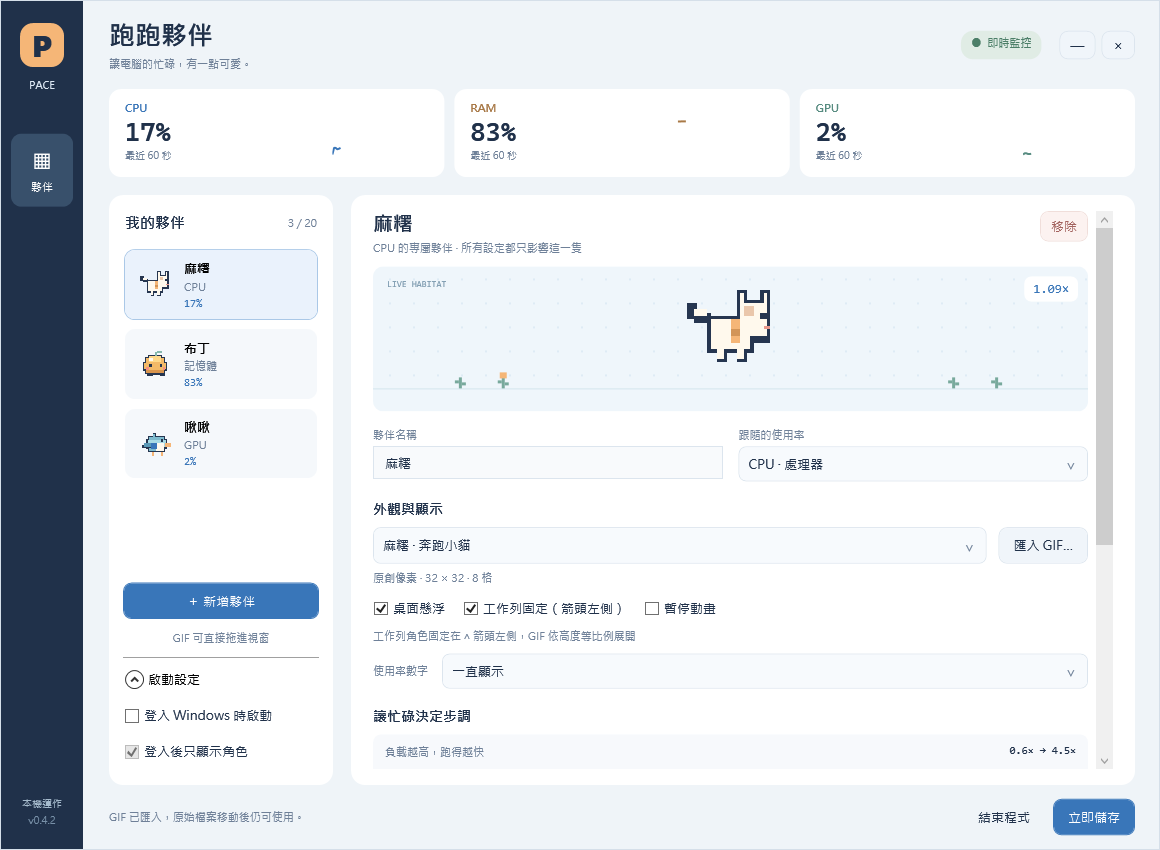
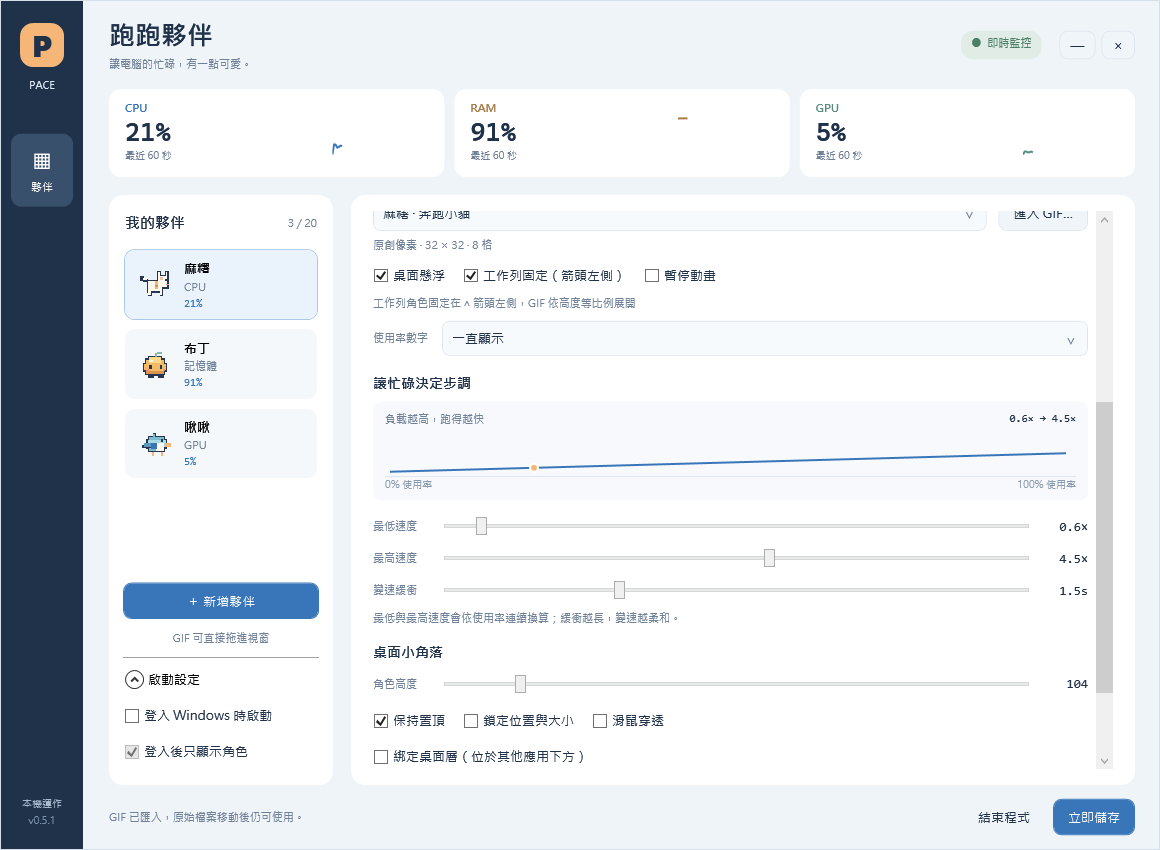
Fix desktop GIF drag events and capture teardown in v0.5.1

diff --git a/src/PaceBuddies/Views/MainWindow.xaml b/src/PaceBuddies/Views/MainWindow.xaml
@@ -7,7 +7,7 @@
    <Grid Margin="0,22,0,22"><Grid.RowDefinitions><RowDefinition Height="Auto"/><RowDefinition Height="*"/><RowDefinition Height="Auto"/></Grid.RowDefinitions>
     <StackPanel HorizontalAlignment="Center"><Border Background="#F5B677" CornerRadius="13" Width="44" Height="44"><TextBlock Text="P" FontFamily="Segoe UI Black" FontSize="30" HorizontalAlignment="Center" VerticalAlignment="Center"/></Border><TextBlock Text="PACE" Foreground="#DDE8F4" FontSize="10" FontWeight="Bold" HorizontalAlignment="Center" Margin="0,12,0,0"/></StackPanel>
     <StackPanel Grid.Row="1" Margin="10,42,10,0"><Border Background="#38506B" CornerRadius="10" Padding="4,13"><StackPanel><TextBlock Text="▦" Foreground="White" FontSize="22" HorizontalAlignment="Center"/><TextBlock Text="夥伴" Foreground="White" FontSize="11" HorizontalAlignment="Center" Margin="0,5,0,0"/></StackPanel></Border></StackPanel>
-    <StackPanel Grid.Row="2"><TextBlock Text="本機運作" Foreground="#A7BDCF" FontSize="10" HorizontalAlignment="Center"/><TextBlock Text="v0.5.0" Foreground="#7891A9" FontSize="10" HorizontalAlignment="Center" Margin="0,5,0,0"/></StackPanel>
+    <StackPanel Grid.Row="2"><TextBlock Text="本機運作" Foreground="#A7BDCF" FontSize="10" HorizontalAlignment="Center"/><TextBlock Text="v0.5.1" Foreground="#7891A9" FontSize="10" HorizontalAlignment="Center" Margin="0,5,0,0"/></StackPanel>
    </Grid>
   </Border>
   <Grid Grid.Column="1" Margin="26,0,24,0">

diff --git a/src/PaceBuddies/Views/DesktopBuddyWindow.cs b/src/PaceBuddies/Views/DesktopBuddyWindow.cs
@@ -58,15 +58,19 @@ public sealed class DesktopBuddyWindow : Window
         Grid.SetRowSpan(editOutline,2);panel.Children.Add(editOutline);
         resizeGrip=new Border{Width=24,Height=24,CornerRadius=new CornerRadius(6),Background=new SolidColorBrush(Color.FromArgb(235,234,242,252)),BorderBrush=new SolidColorBrush(Color.FromRgb(57,118,185)),BorderThickness=new Thickness(1),HorizontalAlignment=HorizontalAlignment.Right,VerticalAlignment=VerticalAlignment.Bottom,Cursor=Cursors.SizeNWSE,ToolTip="拖曳等比例縮放",Name="ResizeGrip",Child=new TextBlock{Text="↘",Foreground=new SolidColorBrush(Color.FromRgb(57,118,185)),FontSize=16,HorizontalAlignment=HorizontalAlignment.Center,VerticalAlignment=VerticalAlignment.Center}};
         Grid.SetRowSpan(resizeGrip,2);panel.Children.Add(resizeGrip);Content=panel;
-        resizeGrip.PreviewMouseLeftButtonDown+=(_,e)=>{BeginGesture(Gesture.Resize);e.Handled=true;};
+        resizeGrip.PreviewMouseLeftButtonDown+=(_,e)=>{BeginGesture(Gesture.Resize,e);e.Handled=true;};
         MouseEnter+=(_,_)=>UpdateChrome();MouseLeave+=(_,_)=>UpdateChrome();
-        MouseLeftButtonDown+=(_,e)=>
+        // ScrollViewer handles the GIF's bubbling press. Receive handled presses too,
+        // while leaving the resize grip's preview-started gesture intact.
+        AddHandler(MouseLeftButtonDownEvent,new MouseButtonEventHandler((_,e)=>
         {
-            if(e.ClickCount==2){open();return;}
-            BeginGesture(Gesture.Move);
-        };
-        MouseMove+=(_,_)=>UpdateGesture();
-        PreviewMouseLeftButtonUp+=(_,e)=>{if(gesture!=Gesture.None){FinishGesture();e.Handled=true;}};
+            if(gesture!=Gesture.None)return;
+            if(e.ClickCount==2){open();e.Handled=true;return;}
+            BeginGesture(Gesture.Move,e);
+            if(gesture!=Gesture.None)e.Handled=true;
+        }),true);
+        MouseMove+=(_,e)=>{if(gesture!=Gesture.None&&!closed)UpdateGesture(EventScreenPoint(e));};
+        PreviewMouseLeftButtonUp+=(_,e)=>{if(gesture!=Gesture.None){UpdateGesture(EventScreenPoint(e));FinishGesture();e.Handled=true;}};
         LostMouseCapture+=(_,_)=>{if(gesture!=Gesture.None)FinishGesture();};
         PreviewMouseWheel+=(_,e)=>
         {
@@ -74,7 +78,7 @@ public sealed class DesktopBuddyWindow : Window
             e.Handled=true;
             ResizeDirectlyBy(Math.Sign(e.Delta)*8);
         };
-        gestureTimer.Tick+=(_,_)=>{if((GetAsyncKeyState(1)&0x8000)==0)FinishGesture();else UpdateGesture();};
+        gestureTimer.Tick+=(_,_)=>PollOutsideGesture();
         SourceInitialized+=(_,_)=>{layer=new(new WindowInteropHelper(this).Handle);ApplySettings();};
         Loaded+=(_,_)=>{Position();UpdateChrome();};
         var menu=new ContextMenu();
@@ -131,18 +135,34 @@ public sealed class DesktopBuddyWindow : Window
         }
         finally{applying=false;}
     }
-    private void BeginGesture(Gesture kind)
+    private NativePoint EventScreenPoint(MouseEventArgs e)
     {
-        if(!DesktopGeometry.CanManipulate(runtime.Config))return;
+        var point=PointToScreen(e.GetPosition(this));
+        return new NativePoint{X=(int)Math.Round(point.X),Y=(int)Math.Round(point.Y)};
+    }
+    private void BeginGesture(Gesture kind,MouseButtonEventArgs e)
+    {
+        if(closed||!DesktopGeometry.CanManipulate(runtime.Config))return;
+        var eventPoint=EventScreenPoint(e);
         externalEdit(()=>{});
-        if(closed||!DesktopGeometry.CanManipulate(runtime.Config)||!GetCursorPos(out startPointer))return;
+        if(closed||!DesktopGeometry.CanManipulate(runtime.Config))return;
+        startPointer=eventPoint;
         if(!GetWindowRect(new WindowInteropHelper(this).Handle,out startBounds))return;
         gesture=kind;lastPointer=startPointer;startSize=runtime.Config.Size;
         CaptureMouse();gestureTimer.Start();UpdateChrome();
     }
-    private void UpdateGesture()
+    private void PollOutsideGesture()
     {
-        if(gesture==Gesture.None||closed||!GetCursorPos(out var pointer))return;
+        if(gesture==Gesture.None||closed||!GetCursorPos(out var pointer)||!GetWindowRect(new WindowInteropHelper(this).Handle,out var bounds))return;
+        // Background/no-activate HWND capture may stop delivering outside the role.
+        // Inside it, use queued WPF event points exclusively to avoid sampling ahead.
+        if(pointer.X>=bounds.Left&&pointer.X<bounds.Right&&pointer.Y>=bounds.Top&&pointer.Y<bounds.Bottom)return;
+        UpdateGesture(pointer);
+        if((GetAsyncKeyState(1)&0x8000)==0)FinishGesture();
+    }
+    private void UpdateGesture(NativePoint pointer)
+    {
+        if(gesture==Gesture.None||closed)return;
         if(pointer.X==lastPointer.X&&pointer.Y==lastPointer.Y)return;
         lastPointer=pointer;
         var dx=pointer.X-startPointer.X;var dy=pointer.Y-startPointer.Y;
@@ -218,6 +238,14 @@ public sealed class DesktopBuddyWindow : Window
         });
     }
     private void OnDisplaySettingsChanged(object? sender,EventArgs e){if(!closed&&!Dispatcher.HasShutdownStarted)Dispatcher.BeginInvoke(QueueMonitorFit);}
+    protected override void OnClosing(System.ComponentModel.CancelEventArgs e)
+    {
+        // Capture can be lost during native teardown, before Closed fires.
+        // End the gesture first so it cannot reapply a closing HWND via the coordinator.
+        closed=true;StopGesture();shellTimer.Stop();
+        base.OnClosing(e);
+        if(e.Cancel){closed=false;ApplySettings();}
+    }
     protected override void OnDpiChanged(DpiScale oldDpi,DpiScale newDpi){base.OnDpiChanged(oldDpi,newDpi);QueueMonitorFit();}
     [StructLayout(LayoutKind.Sequential)] private struct NativePoint{public int X,Y;}
     [DllImport("user32.dll")] private static extern bool GetCursorPos(out NativePoint point);

diff --git a/src/PaceBuddies/SmokeChecks.cs b/src/PaceBuddies/SmokeChecks.cs
@@ -231,6 +231,16 @@ internal static class SmokeChecks
             Check("Native click-through style is enabled",(GetWindowLongPtr(new WindowInteropHelper(desktop).Handle,-20).ToInt64()&0x20)!=0);
             config.ClickThrough=false;coordinator.Apply(coordinator.Buddies[0]);
             Check("Native click-through style can be disabled",(GetWindowLongPtr(new WindowInteropHelper(desktop).Handle,-20).ToInt64()&0x20)==0);
+            var desktopDragImage=Descendants<System.Windows.Controls.Image>(desktop).Single();
+            var dragRoute=new List<string>();
+            foreach(var element in new UIElement[]{desktopDragImage,Descendants<System.Windows.Controls.ScrollViewer>(desktop).Single(),desktop})
+                element.AddHandler(UIElement.MouseLeftButtonDownEvent,new System.Windows.Input.MouseButtonEventHandler((sender,args)=>dragRoute.Add($"{sender.GetType().Name}: handled={args.Handled}, captured={desktop.IsMouseCaptured}")),true);
+            desktopDragImage.RaiseEvent(new System.Windows.Input.MouseButtonEventArgs(System.Windows.Input.Mouse.PrimaryDevice,Environment.TickCount,System.Windows.Input.MouseButton.Left){RoutedEvent=System.Windows.Input.Mouse.MouseDownEvent});
+            var imageDragCaptured=desktop.IsMouseCaptured;
+            File.WriteAllText(Path.Combine(output,"drag-route.json"),JsonSerializer.Serialize(new{Route=dragRoute,Captured=imageDragCaptured},new JsonSerializerOptions{WriteIndented=true}));
+            desktop.RaiseEvent(new System.Windows.Input.MouseButtonEventArgs(System.Windows.Input.Mouse.PrimaryDevice,Environment.TickCount,System.Windows.Input.MouseButton.Left){RoutedEvent=System.Windows.Input.Mouse.PreviewMouseUpEvent});
+            Check("Mouse press on GIF starts the drag gesture",imageDragCaptured);
+            Check("GIF release finishes its captured gesture",!desktop.IsMouseCaptured);
             var pendingDesktopName="保留桌面操作前的草稿";
             nameBox.Text=pendingDesktopName;
             Check("Unlocked desktop buddy can resize directly",desktop.ResizeDirectlyTo(160)&&config.Size==160);
@@ -243,6 +253,8 @@ internal static class SmokeChecks
             GetWindowRect(new WindowInteropHelper(desktop).Handle,out var movedDesktop);
             Check("Desktop movement persists physical coordinates",config.X==movedDesktop.Left&&config.Y==movedDesktop.Top&&movedDesktop.Left==desktopArea.Left+80);
             coordinator.EditExternally(()=>config.Locked=true);
+            desktopDragImage.RaiseEvent(new System.Windows.Input.MouseButtonEventArgs(System.Windows.Input.Mouse.PrimaryDevice,Environment.TickCount,System.Windows.Input.MouseButton.Left){RoutedEvent=System.Windows.Input.Mouse.MouseDownEvent});
+            Check("Locked GIF press cannot start a gesture",!desktop.IsMouseCaptured);
             Check("Locked desktop blocks resize and movement",!desktop.ResizeDirectlyTo(240)&&!desktop.MoveDirectlyTo(0,0)&&config.Size==160);
             coordinator.EditExternally(()=>{config.Locked=false;config.ClickThrough=true;});
             Check("Click-through desktop blocks direct manipulation",!desktop.ResizeDirectlyTo(240)&&!desktop.MoveDirectlyTo(0,0));
@@ -261,6 +273,9 @@ internal static class SmokeChecks
             layerBox.BringIntoView();manager.UpdateLayout();Capture(manager,Path.Combine(output,"desktop-settings.png"));
             GetWindowRect(desktopHandle,out var afterBinding);
             Check("Binding preserves physical screen position",Math.Abs(beforeBinding.Left-afterBinding.Left)<=1&&Math.Abs(beforeBinding.Top-afterBinding.Top)<=1);
+            desktopDragImage.RaiseEvent(new System.Windows.Input.MouseButtonEventArgs(System.Windows.Input.Mouse.PrimaryDevice,Environment.TickCount,System.Windows.Input.MouseButton.Left){RoutedEvent=System.Windows.Input.Mouse.MouseDownEvent});
+            Check("Desktop-bound GIF press starts a gesture",desktop.IsMouseCaptured);
+            desktop.RaiseEvent(new System.Windows.Input.MouseButtonEventArgs(System.Windows.Input.Mouse.PrimaryDevice,Environment.TickCount,System.Windows.Input.MouseButton.Left){RoutedEvent=System.Windows.Input.Mouse.PreviewMouseUpEvent});
             Check("Bound buddy still resizes and moves",desktop.ResizeDirectlyTo(200)&&desktop.MoveDirectlyTo(desktopArea.Left+150,desktopArea.Top+150)&&desktop.IsDesktopBound);
             GetWindowRect(desktopHandle,out var boundPosition);
             Check("Bound moves map to screen coordinates",boundPosition.Left==desktopArea.Left+150&&boundPosition.Top==desktopArea.Top+150);
@@ -281,6 +296,8 @@ internal static class SmokeChecks
                 finally{shell.UndoMinimizeAll();Marshal.FinalReleaseComObject(shell);manager.Reopen();}
             }
             else skipped.Add("Show Desktop visual hit testing requires an accessible input desktop; native parent/style still checked.");
+            desktopDragImage.RaiseEvent(new System.Windows.Input.MouseButtonEventArgs(System.Windows.Input.Mouse.PrimaryDevice,Environment.TickCount,System.Windows.Input.MouseButton.Left){RoutedEvent=System.Windows.Input.Mouse.MouseDownEvent});
+            Check("Desktop gesture is captured before host closure",desktop.IsMouseCaptured);
             var retiredHandle=desktopHandle;desktop.Close();await Task.Delay(120);
             desktop=Application.Current.Windows.OfType<DesktopBuddyWindow>().Single(window=>ReferenceEquals(window.DataContext,firstBuddy));
             desktopHandle=new WindowInteropHelper(desktop).Handle;

diff --git a/docs/verification.md b/docs/verification.md
@@ -1,5 +1,15 @@
 # Release verification · 2026-10-19
 
+## 0.5.1 desktop drag events and process recovery
+
+- Reproduced GIF Image→ScrollViewer→Window press routing: ScrollViewer marks the event handled and the old window handler never starts a gesture. The added routed-press check fails before handledEventsToo registration and passes after it. Locked and desktop-bound press cases, plus actual preview-release capture cleanup, are covered.
+- Fast native-input probe recorded the MouseDown event at client110,76 while GetCursorPos had already advanced20 pixels to the drag endpoint. Start/move/release now use event-screen coordinates; capture the start before flushing editor drafts. Native polling applies only outside the role's HWND bounds. The user stopped Computer Use before final end-to-end physical-input verification; no claim of a completed physical-pointer pass is made.
+- Reproduced active-capture Close teardown exception in isolated packaged checks: LostMouseCapture called FinishGesture→EditExternally→Apply→Show on a closing/closed HWND. OnClosing now marks the window closed and stops the gesture before native teardown; explicit captured-close/recreation regression passes.
+- A SendMessage-only replay with the real cursor elsewhere is not a valid native drag simulation: CaptureMouse also generates live-position reports. Kept diagnostic artifacts locally and removed that invalid check.
+- Final build:0 warnings/errors;66 Core checks pass. Packaged normal start:107 checks pass with one foreground-activation group skipped by the OS; background start:113 checks pass/no skips. Earlier development run also passed113 checks/no skips. Tests include actual parent/styles, Show Desktop exposure, closed-child recreation, taskbar visibility, GIF import/cache, settings and startup.
+- User's disappearing-right-corner report coincided with the legacy unversioned entry running0.1.0, while startup pointed to0.5.0. Restored the modern taskbar strip, then replaced the fixed entry with verified0.5.1 and launched process94100. All existing fields of the latest two buddies unchanged; both GIFs present; startup points to the fixed entry with --background; no real-profile error.log. The fixed EXE hash matches the release EXE.
+- Evidence: artifacts/drag-event-red/, artifacts/drag-route-red/, artifacts/drag-close-green/, artifacts/release-051-normal/, artifacts/release-051-background/; local settings backups remain ignored.
+
 ## 0.4.2 opening-application flicker
 
 - User clarified that opening any application/window can briefly remove the GIF; supplied screenshot still shows the Windows taskbar. Real-profile0.4.1 log contained fullscreen hide/restore transitions during launch. Native polling also captured the taskbar briefly ahead of the visible overlay before the500ms fallback refreshed it.

diff --git a/progress.md b/progress.md
@@ -69,3 +69,10 @@
 - Initial background test failed its fixed350ms shell transition assertion; unchanged binary recheck passed. Replaced timing assumption with bounded actual-exposure wait; final both modes passed. Inspected manager/settings renders.
 - Gracefully exited0.4.2 using its own UI Automation Exit action and launched0.5.0 process62532. Latest roster had two buddies; all existing fields identical, both GIF paths valid, startup hidden preference preserved and Run command points to0.5.0. No error.log. Old configs retain default unbound desktop mode.
 - Local delivery dist/PaceBuddies-0.5.0-win-x64/PaceBuddies.exe and matching ZIP; public GitHub0.4.2 release unchanged.
+
+## Drag/recovery0.5.1 and requested GitHub publication
+- Reproduced ScrollViewer swallowing the GIF press, plus fast pointer sampling ahead of the down event. Use handledEventsToo, snapshot event-screen start before draft flush, apply event move/release points and reserve native polling for outside-HWND capture fallback.
+- Reproduced whole-app exit when closing a captured role caused LostMouseCapture→FinishGesture→Apply→Show during teardown. OnClosing now stops capture before teardown; deliberate captured-close/recreation regression passes. Scoped read-only review found no new important concern.
+- Core66 pass; final packaged normal107 pass with one OS-denied foreground-activation group skipped, background113 pass/no skips. Do not claim final physical-pointer validation: user stopped Computer Use. Invalid targeted SendMessage replay was diagnosed and removed; event capture/release and native lifecycle tests retained.
+- Right-corner disappearance investigation found process38896 running stale fixed entry0.1.0. Restored0.5.0 first, then updated fixed entry to0.5.1 and started process94100. Latest two-buddy fields unchanged; GIFs valid; existing login startup updated to fixed entry; no real-profile error.log; strip status active.
+- User explicitly requested GitHub publication of this revision. Release notes and README downloads updated to0.5.1; EXE/ZIP/SHA256 assets prepared. Public upload in progress.

diff --git a/findings.md b/findings.md
@@ -4,6 +4,9 @@
 - SetParent does not update WS_CHILD/WS_POPUP automatically and has DPI-awareness constraints. Preserve physical positions and map ScreenToClient on bound moves; validate DPI contexts before cross-process parenting.
 - A failed attachment must explicitly restore native TOPMOST because WPF may cache Topmost=true while native HWND_NOTOPMOST has already lowered the window. Limit effective desktop height by work-area DIP minus28; keep requested size for larger monitors.
 - Shell MinimizeAll returns before its animation finishes; fixed350ms visual assertions can race. Wait for actual desktop hit exposure with a bounded timeout; preserve UndoMinimizeAll in finally.
+- GIF ScrollViewer consumes MouseLeftButtonDown; use handledEventsToo for the role while preserving preview-started resize gestures. Snapshot event-screen start before coordinated editor updates; avoid mixing in-HWND queued points with live cursor polling.
+- Stop gestures in OnClosing, before native capture teardown, rather than waiting for Closed; otherwise LostMouseCapture can reenter coordinator.Apply and try to show a closing window.
+- Keep the local fixed dist/PaceBuddies-win-x64 entry updated during activation. Its stale0.1.0 binary was reopened while newer versioned directories existed, causing the modern taskbar strip to be absent.
 
 - RunCat365 upstream uses WinForms and .NET 9. Current workstation has .NET SDK 8.0.426 and desktop runtime 8.0.32.
 - Upstream custom runners use 2–30 imported still frames at small tray sizes; the requested arbitrary GIF and multi-buddy desktop architecture justify a focused independent implementation.

diff --git a/README.md b/README.md
@@ -6,9 +6,11 @@ Windows 10 / 11 原生桌面工具；每隻角色都能使用自己的 GIF，並
 
 ## 下載與開始使用
 
-從 [最新 Release](https://github.com/bosen12/pace-buddies/releases/latest) 下載 [Windows x64 免安裝 ZIP](https://github.com/bosen12/pace-buddies/releases/download/v0.4.2/PaceBuddies-0.4.2-win-x64.zip)，解壓縮後開啟 `PaceBuddies.exe`。也可直接下載 [單一執行檔](https://github.com/bosen12/pace-buddies/releases/download/v0.4.2/PaceBuddies.exe)。
+從 [最新 Release](https://github.com/bosen12/pace-buddies/releases/latest) 下載 [Windows x64 免安裝 ZIP](https://github.com/bosen12/pace-buddies/releases/download/v0.5.1/PaceBuddies-0.5.1-win-x64.zip)，解壓縮後開啟 `PaceBuddies.exe`。也可直接下載 [單一執行檔](https://github.com/bosen12/pace-buddies/releases/download/v0.5.1/PaceBuddies.exe)。
 
 不需要安裝 .NET，也不需要管理員權限。免安裝包可以整個資料夾移動。Release 附有 `SHA256SUMS.txt` 可核對下載檔案。
+
+升級時請先在舊版按「結束程式」，再開啟新版；右上角 × 只會收起視窗。既有角色、GIF 與設定會沿用。可從管理視窗左下確認版本為 v0.5.1，避免再次開到另一個資料夾中的舊版。
 
 ![跑跑夥伴管理視窗](https://raw.githubusercontent.com/bosen12/pace-buddies/main/docs/images/manager.png)
 

diff --git a/docs/releases/v0.5.1.md b/docs/releases/v0.5.1.md
@@ -1,0 +1,13 @@
+# v0.5.1 · 桌面自由拖曳與桌面層綁定
+
+新增未鎖定角色的直接拖曳、右下角等比例縮放及 Ctrl＋滾輪調整。每隻角色可獨立綁定桌面層，位於一般應用下方，執行「顯示桌面」仍會顯示；取消綁定會恢復懸浮與原本置頂偏好。
+
+- 修正 GIF 捲動容器攔截滑鼠按下，導致角色無法拖動。
+- 拖放採用事件當下的座標，放開時套用最後位置；原生游標輪詢限於角色視窗外的捕捉備援。
+- 修正拖曳中關閉或重建角色視窗時的重入例外，避免連同工作列角色及管理圖示一起退出。
+- 鎖定同時固定位置與大小；高度範圍 48～480，小螢幕會依工作區調整有效顯示高度。
+- 保留工作列 GIF 的完整高度、寬圖水平捲動、資源使用率變速與開機啟動設定。
+
+下載 `PaceBuddies.exe` 可直接執行，或下載 ZIP 後解壓縮。不需要另外安裝 .NET。`SHA256SUMS.txt` 可供核對檔案。
+
+升級請先在舊版按「結束程式」，再啟動新版；右上角 × 只會收起視窗。既有設定與匯入 GIF 會沿用。管理視窗左下可確認版本為 v0.5.1。

diff --git a/task_plan.md b/task_plan.md
@@ -4,10 +4,10 @@
 Deliver a usable native Windows app with independent animated resource buddies in the system tray and on the desktop, arbitrary GIF import, and a distinctive Traditional Chinese manager.
 
 ## Next Step
-Desktop editing and binding delivered locally in0.5.0. Await user feedback.
+Publish verified0.5.1 source and release assets to GitHub at the user's explicit follow-up request.
 
 ## Current Phase
-Desktop editing and desktop layer (complete)
+0.5.1 release publication (in_progress)
 
 ## Phases
 1. Design and upstream evaluation — complete.
